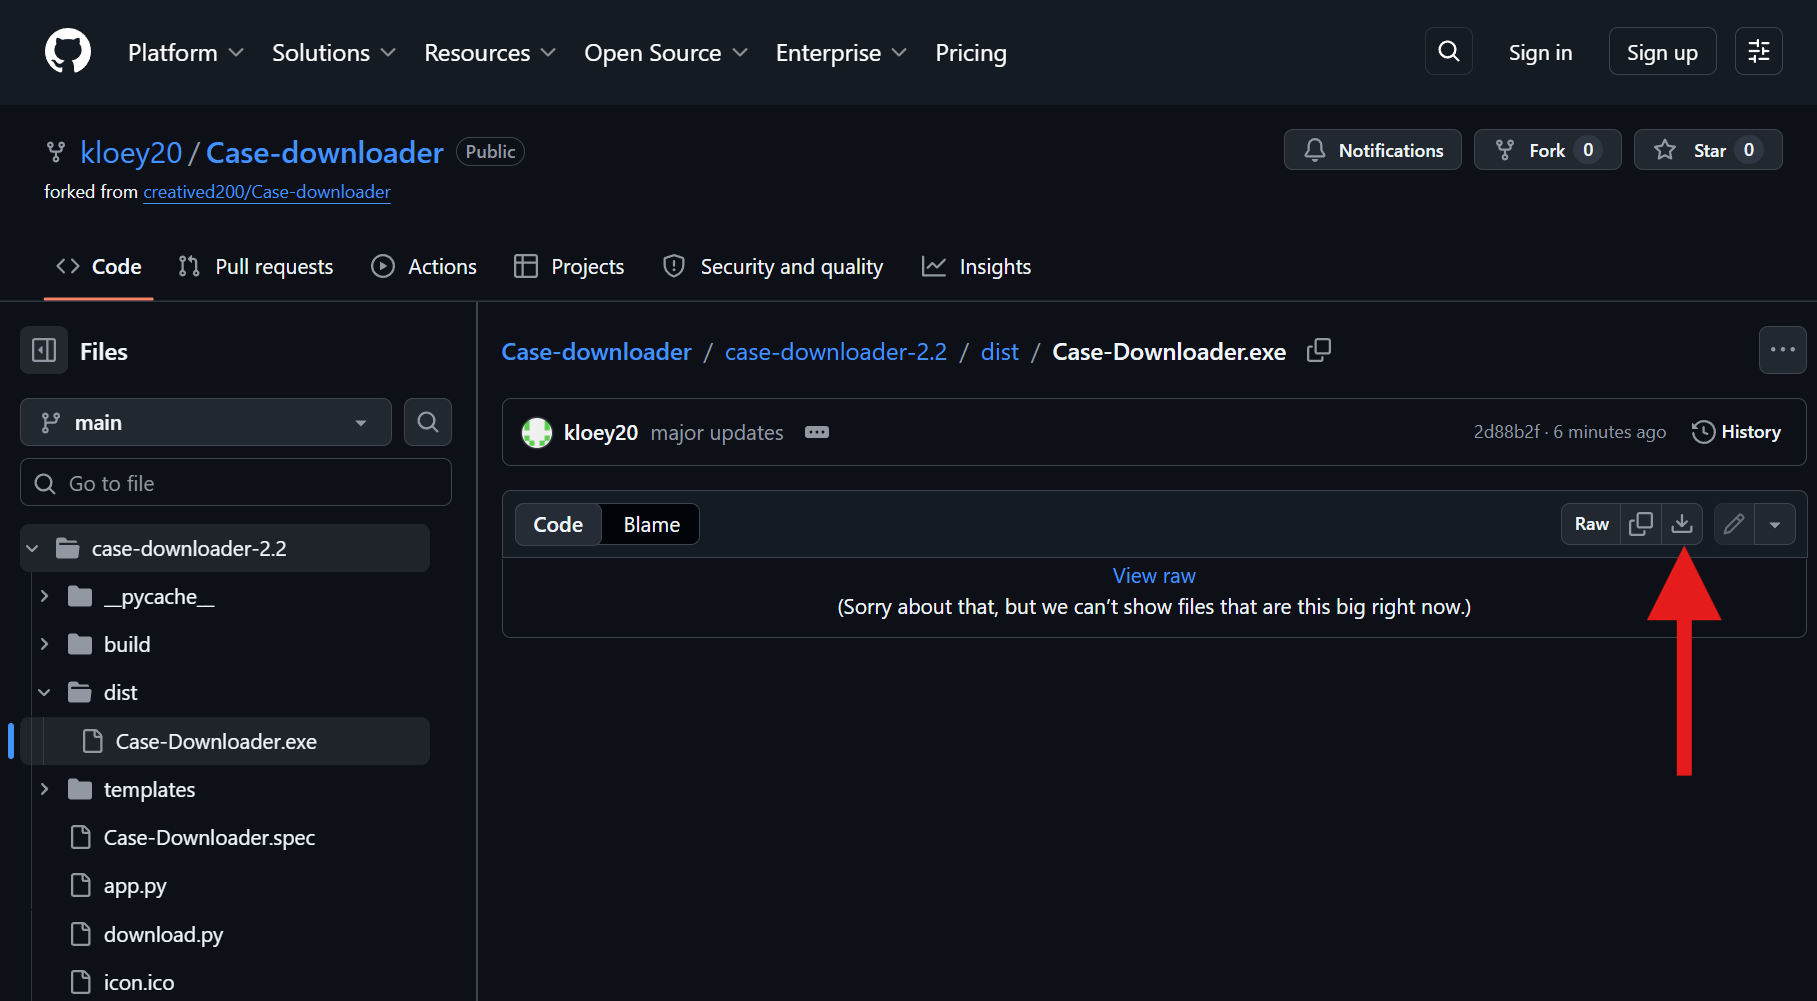
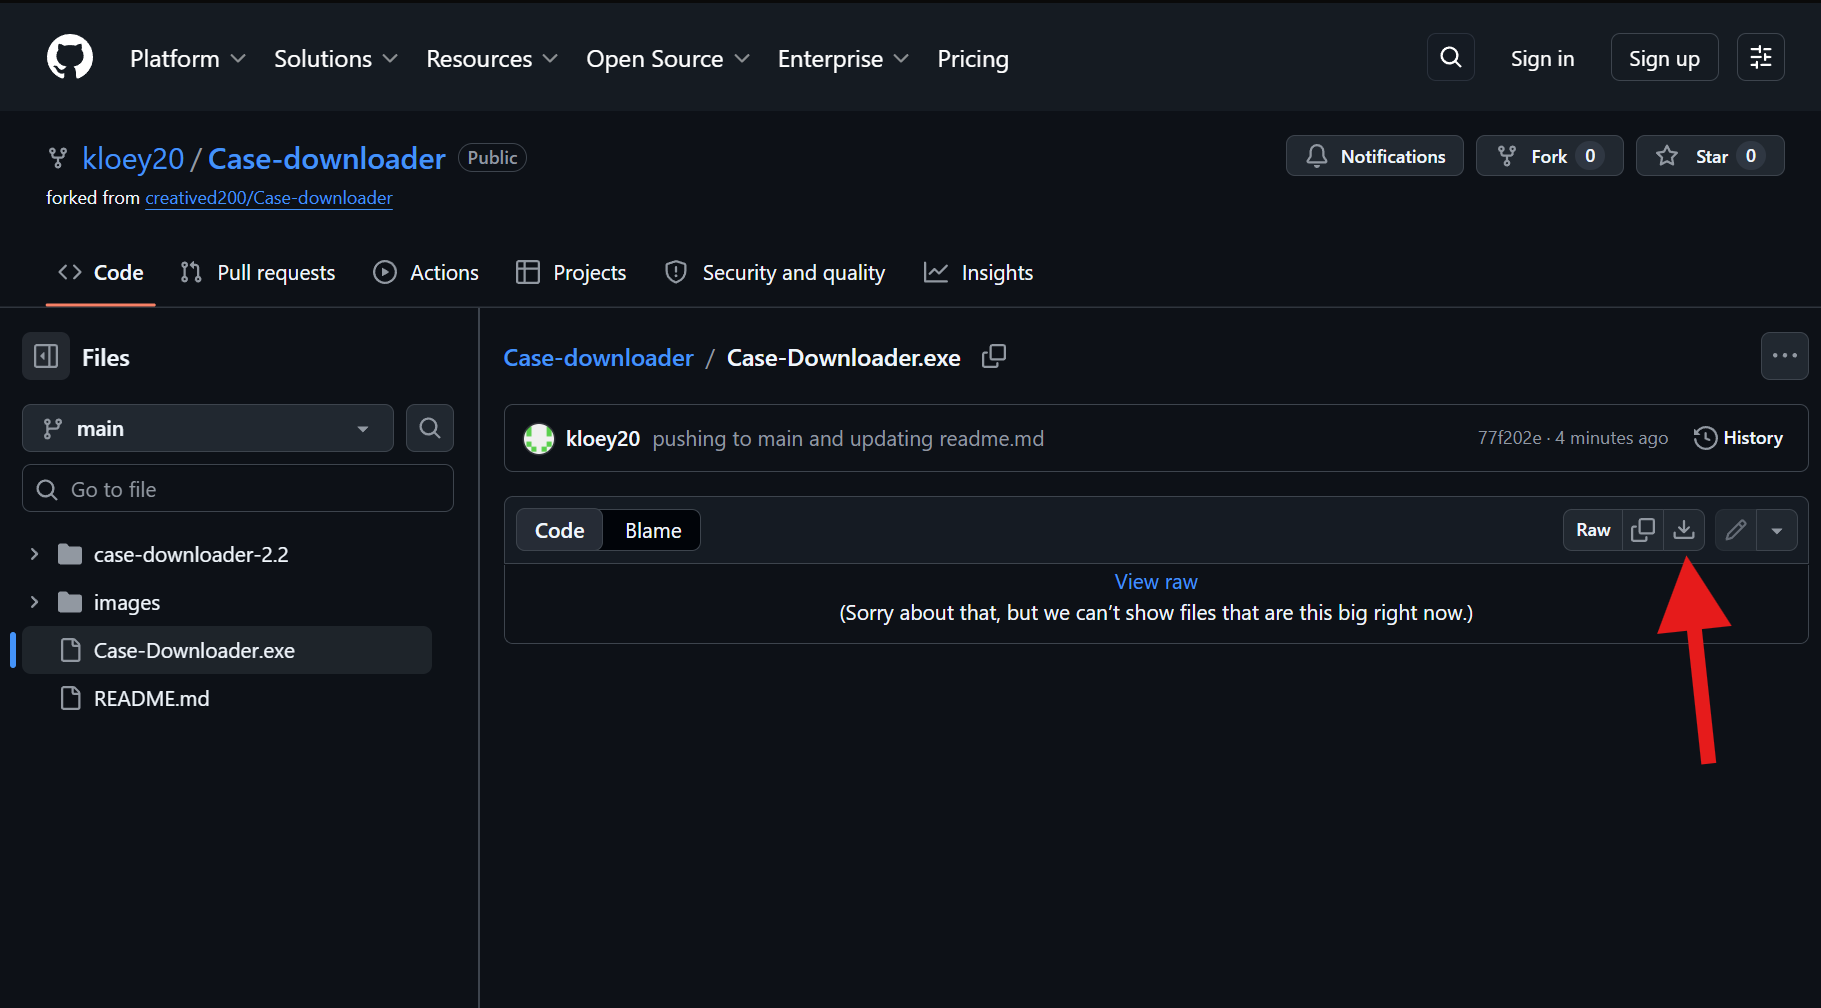
updating readme.md

diff --git a/README.md b/README.md
@@ -11,10 +11,16 @@ Before running this app, ensure you have the following installed on your compute
 >***Some cases cannot be downloaded, try again if needed but if it fails then manually download***
 
 ## 📋 How to install
-1. Open the file like here
-2. Download the file by clicking the download:
+### 1. Open the file link above:
+![link](/images/app%20link.png)
+
+### 2. Download the file by clicking the download:
 ![dist folder](/images/dist%20folder.png)
 
 
-3. save the case-downloader.exe where you want the cases to be saved
-4. Run the Case-Downloader.exe
+### 3. Save the case-downloader.exe where you want the cases to be saved.
+
+### 4. Run the Case-Downloader.exe
+
+### 5. Type the G.R. number you want to download, then press 'Download PDF'
+![input](/images/input.png)
